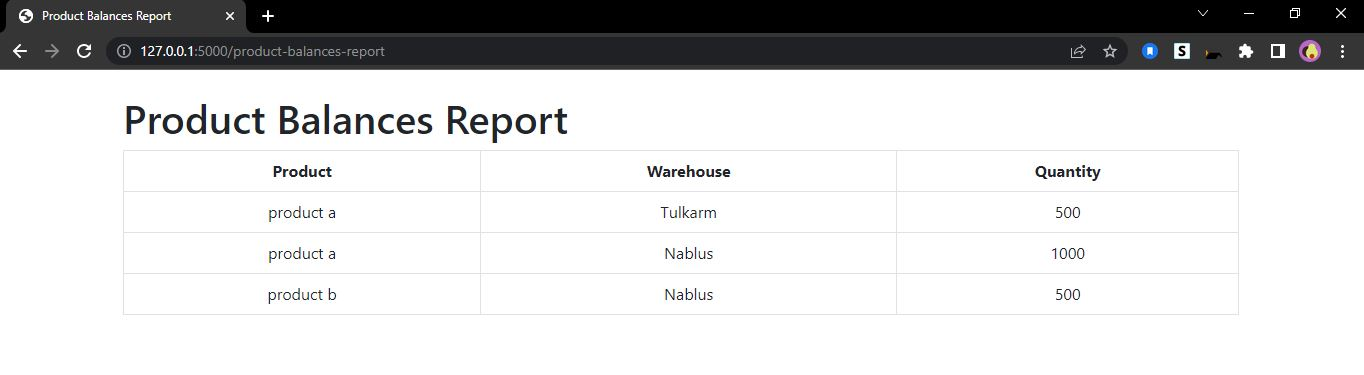
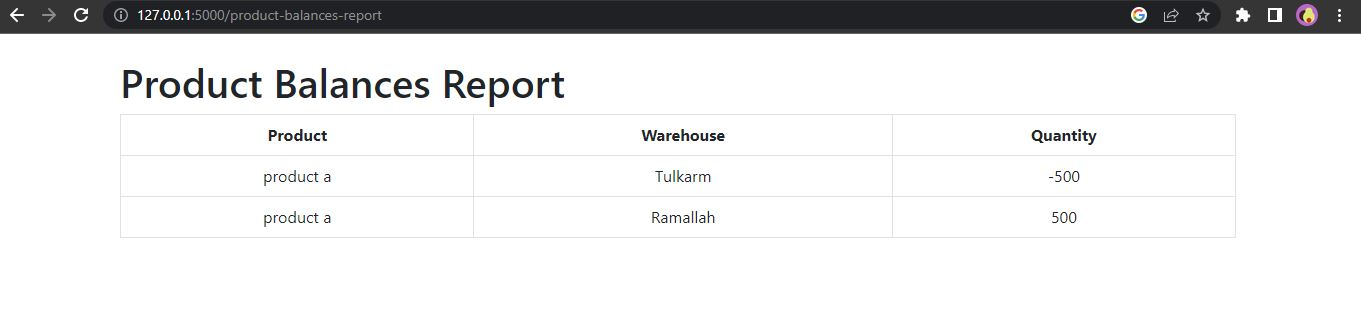
fix from_where balance

diff --git a/app/app/templates/report.html b/app/app/templates/report.html
@@ -26,18 +26,19 @@
                     </tr>
                 </thead>
                 <tbody>
-                    {% for product in products %}
-                    {% for location in locations %}
-                    {% set balance = product_balances[location.location_id][product.product_id] %}
-                    {% if balance > 0 %}
-                    <tr>
-                        <td>{{ product.product_id }}</td>
-                        <td>{{ location.location_id }}</td>
-                        <td>{{ balance }}</td>
-                    </tr>
-                    {% endif %}
-                    {% endfor %}
-                    {% endfor %}
+                    <tbody>
+                        {% for location_id, product_balance in product_balances.items() %}
+                            {% for product_id, balance in product_balance.items() %}
+                                {% if balance != 0 %}
+                                    <tr>
+                                        <td>{{ product_id }}</td>
+                                        <td>{{ location_id }}</td>
+                                        <td>{{ balance }}</td>
+                                    </tr>
+                                {% endif %}
+                            {% endfor %}
+                        {% endfor %}
+                    </tbody>
                 </tbody>
             </table>
         </div>

diff --git a/app/app/views.py b/app/app/views.py
@@ -63,19 +63,26 @@ def product_balances_report():
     # Query all locations and products
     locations = Location.query.all()
     products = Product.query.all()
-
-    # Create a dictionary to store product balances per location
     product_balances = {}
 
-    # Calculate product balances for each location
     for location in locations:
         product_balances[location.location_id] = {}
+        
         for product in products:
             balance = 0
-            movements = ProductMovement.query.filter_by(to_location=location.location_id,
-                                                    product_id=product.product_id).all()
-            for movement in movements:
+            
+            # Calculate balance for movements to the location
+            to_movements = ProductMovement.query.filter_by(to_location=location.location_id,
+                                                        product_id=product.product_id).all()
+            for movement in to_movements:
                 balance += movement.qty
+            
+            # Calculate balance for movements from the location
+            from_movements = ProductMovement.query.filter_by(from_location=location.location_id,
+                                                            product_id=product.product_id).all()
+            for movement in from_movements:
+                balance -= movement.qty
+            
             product_balances[location.location_id][product.product_id] = balance
 
     return render_template('report.html', locations=locations, products=products, product_balances=product_balances)
